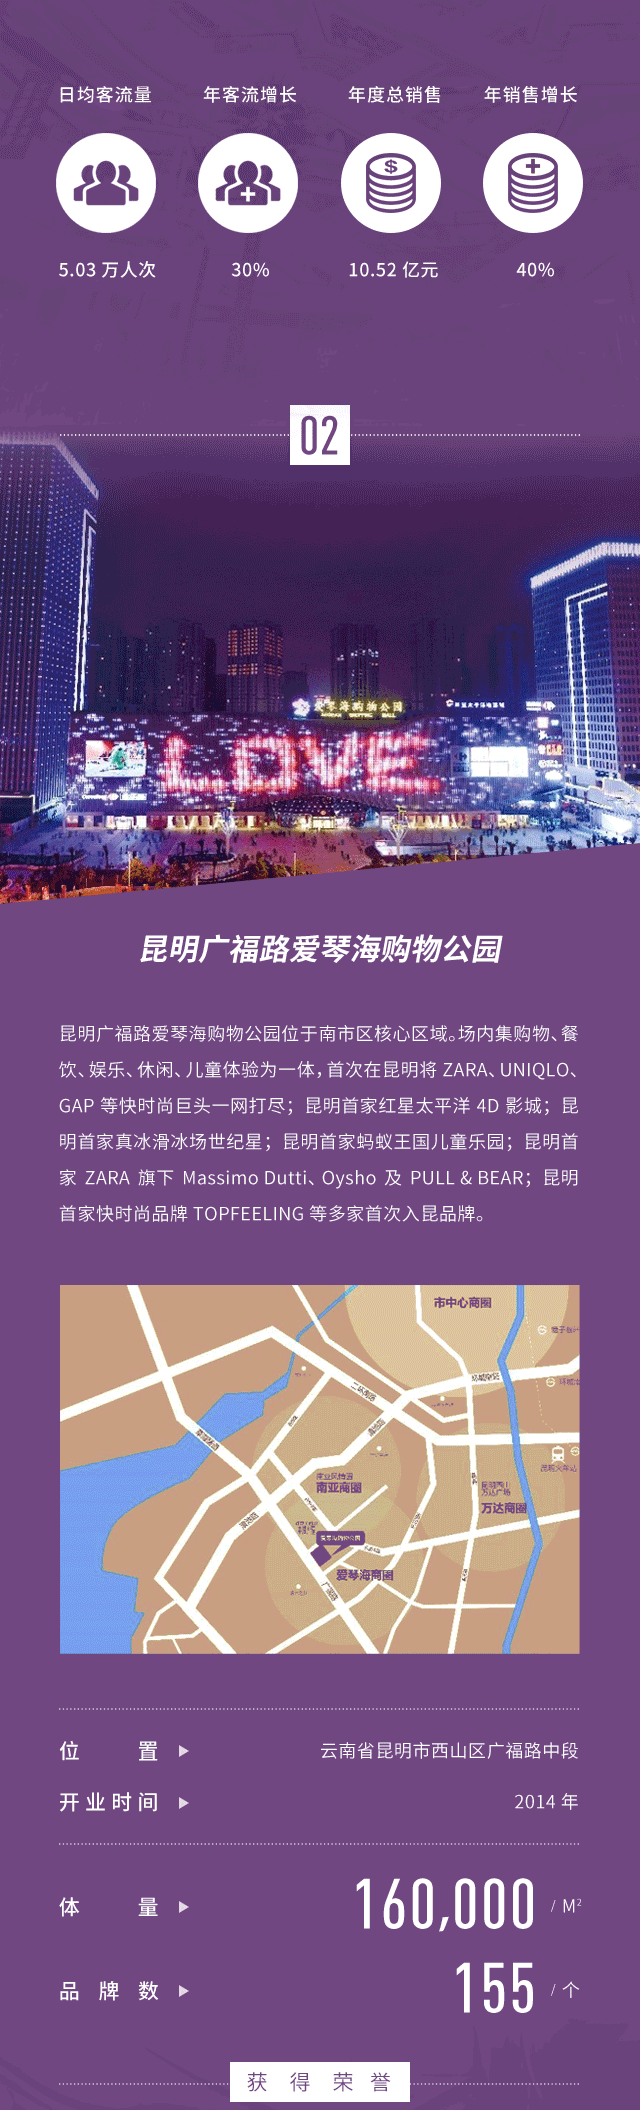
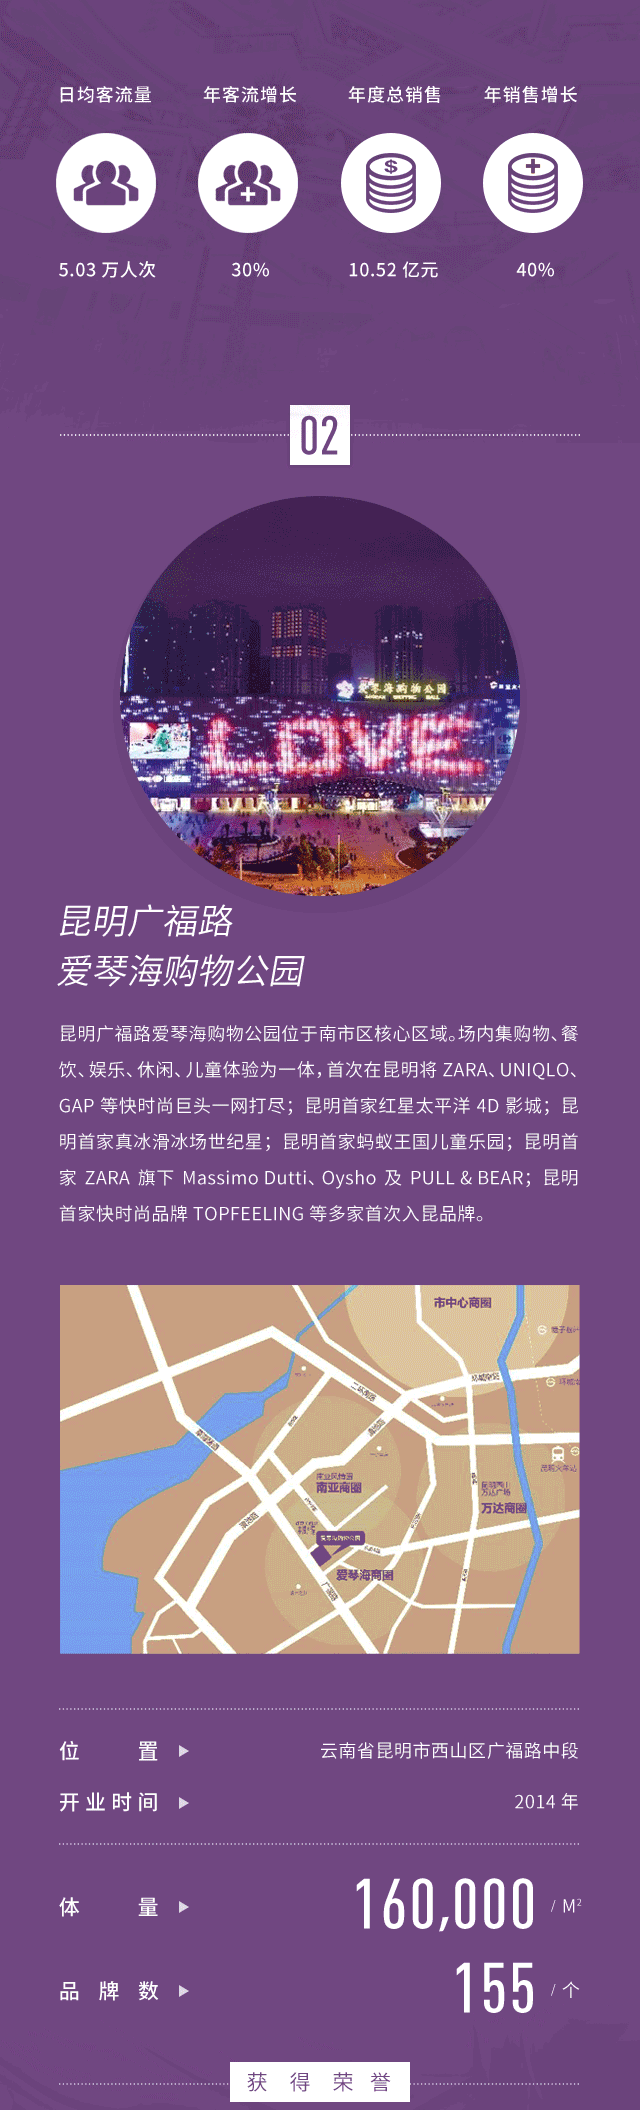
改图

Changed region(s): [[0.0, 0.1848, 1.0, 0.4929]]

diff --git a/css/index.css b/css/index.css
@@ -211,10 +211,15 @@ a {
 }*/
 
 .content1 .part11 {
-    height: 42.5rem;
+    height: 29.13rem;
     background: url("../img/patr1_12.png") no-repeat;
     background-size: 100% 100%;
     position: relative;
+}
+.content1 .last{
+    height: 9.4rem;
+    background: url("../img/last.png") no-repeat;
+    background-size: 100% 100%;
 }
 .content1 .developmenthistory{
     height: 12.81rem;
@@ -395,7 +400,7 @@ a {
     animation: fadein 4s linear 1s;
     animation-fill-mode: forwards;
 }
-.content1 .part12{
+/*.content1 .part12{
     width: 2.2rem;
     height: 2.19rem;
     position: relative;
@@ -406,7 +411,8 @@ a {
 .content1 .part12 img{
     width: 2.2rem;
     height: 2.19rem;
-}
+}*/
+
 .content1 .part11 .cjx{
     background: url("../img/cjx.png")no-repeat;
     background-size: 100% 100%;
@@ -820,8 +826,13 @@ a {
     margin: 7.98rem 0 0 1.8rem;
 }
 .content2 .part33 {
-    height: 41.91rem;
+    height: 28.6rem;
     background: url("../img/page2/M-02_36.png") no-repeat;
+    background-size: 100% 100%;
+}
+.content2 .last{
+    height: 9.4rem;
+    background: url("../img/page2/last.png") no-repeat;
     background-size: 100% 100%;
 }
 .dash2{
@@ -933,7 +944,7 @@ a {
     position: absolute;
     margin: .99rem 0 0 3.53rem;
 }
-.content2 .part34{
+/*.content2 .part34{
     width: 2.2rem;
     height: 2.19rem;
     position: relative;
@@ -944,7 +955,7 @@ a {
 .content2 .part34 img{
     width: 2.2rem;
     height: 2.19rem;
-}
+}*/
 /********************cont3******************************/
 .content3 .part2 {
     height: 5.38rem;
@@ -963,8 +974,13 @@ a {
 }
 
 .content3 .part4 {
-    height: 31.51rem;
+    height: 18.18rem;
     background: url("../img/page3/page3_04.png") no-repeat;
+    background-size: 100% 100%;
+}
+.content3 .last{
+    height: 9.4rem;
+    background: url("../img/page3/last.png") no-repeat;
     background-size: 100% 100%;
 }
 .biger{
@@ -1086,7 +1102,7 @@ a {
 }
 
 .content4 .part15 {
-    height: 13.94rem;
+    height: 9.4rem;
     background: url("../img/page4/page4_16.png") no-repeat;
     background-size: 100% 100%;
 }

diff --git a/index.html b/index.html
@@ -98,8 +98,9 @@
         <div class="wq"></div>
         <div class="lja"></div>
     </div>
+    <div class="last"></div>
     <div class="part12">
-        <img src="img/QR.png" alt=""/>
+        <!--<img src="img/QR.png" alt=""/>-->
     </div>
 </div>
 <div class="content2">
@@ -179,8 +180,9 @@
             <div class="achievementM4"></div>
         </div>
     </div>
+    <div class="last"></div>
     <div class="part34">
-        <img src="img/QR.png" alt=""/>
+        <!--<img src="img/QR.png" alt=""/>-->
     </div>
 </div>
 <div class="content3">
@@ -188,9 +190,10 @@
     <div class="cooperationLog"></div>
     <div class="part3"></div>
     <div class="part4"></div>
-    <div class="QR">
+    <div class="last"></div>
+    <!--<div class="QR">
         <img src="img/QR.png" alt=""/>
-    </div>
+    </div>-->
 </div>
 <div class="content4">
     <div class="part2"></div>
@@ -207,9 +210,10 @@
     <div class="part13"></div>
     <div class="part14"></div>
     <div class="part15"></div>
-    <div class="QR">
+    <div class="last"></div>
+    <!--<div class="QR">
         <img src="img/QR.png" alt=""/>
-    </div>
+    </div>-->
 </div>
 
 
